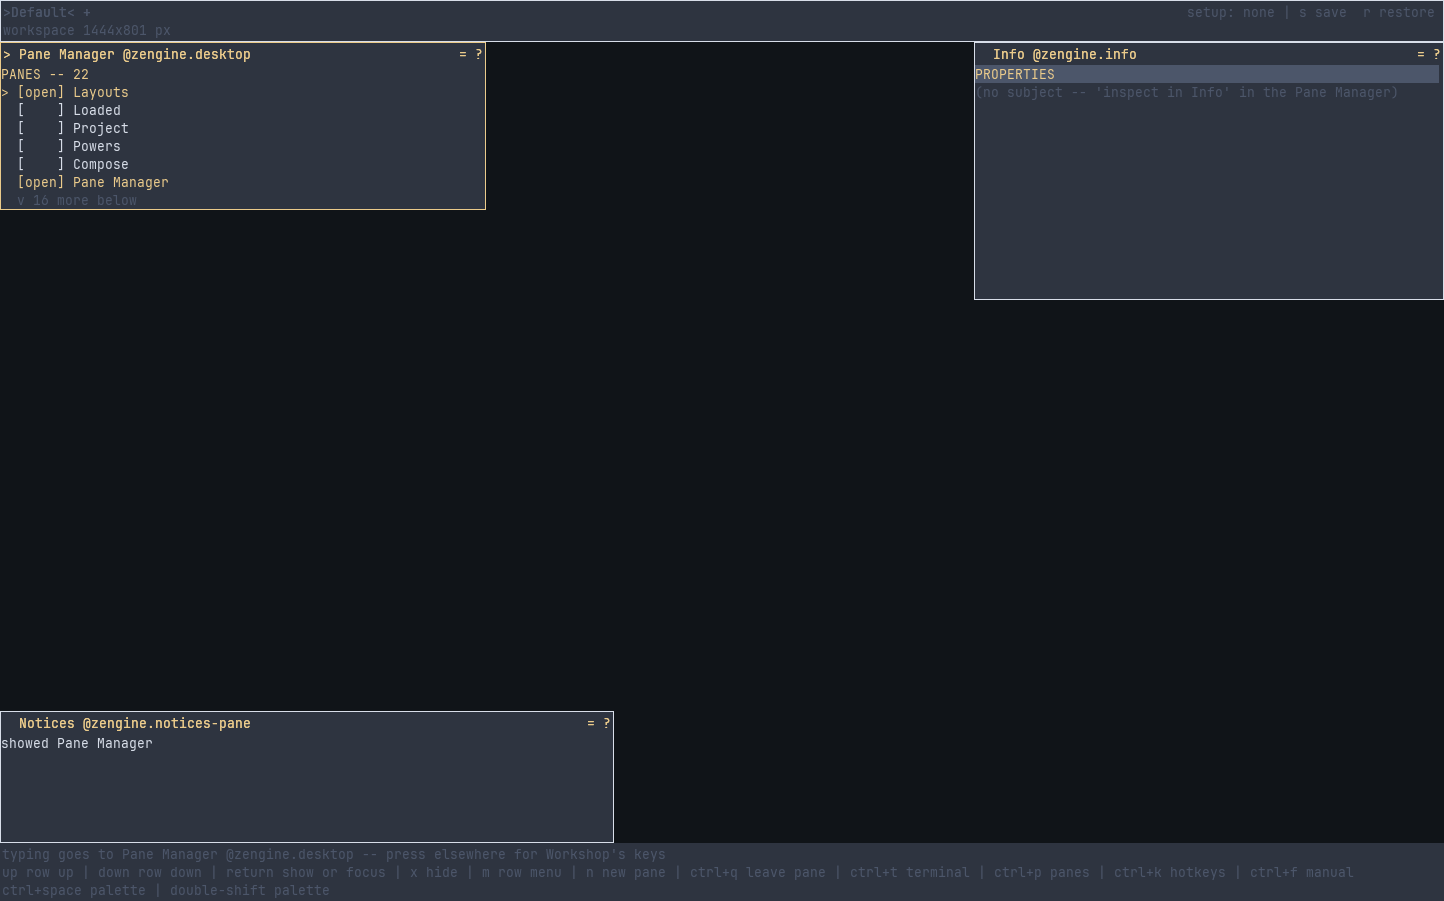
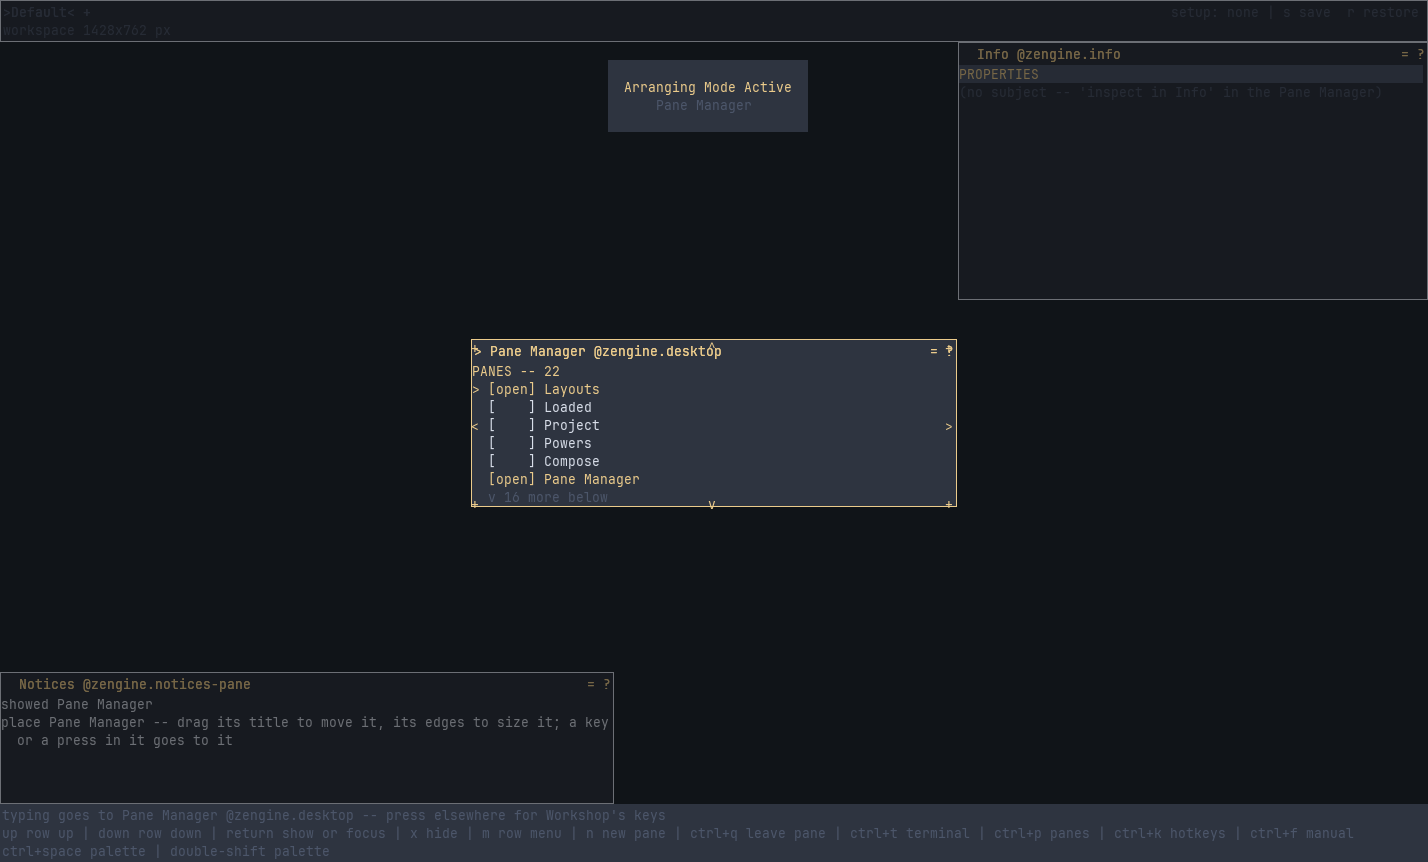
Getting started's and Panes' pictures of a pane opened are taken again: each opens at the room's centre, being placed, Arranging Mode Active named over it and the other panes faded

diff --git a/workshop/docs/getting-started.md b/workshop/docs/getting-started.md
@@ -195,15 +195,16 @@ the right of its title: press it to read what the pane is and every command it h
 
 ## Your first five minutes
 
-**At your first start, the quick setup asks first**, in front and holding the keys: whether to
-edit text with Neovim, and which ready-to-use setup to start. Done or Skip puts it away for good
+**At your first start, the quick setup asks first**, at the room's centre and holding the keys,
+ready for you to drag it where you want it: whether to edit text with Neovim, and which
+ready-to-use setup to start. Done or Skip puts it away for good
 and opens **Start here**, the story a step at a time, each box ticked as it happens, shown at each
 start until you finish it; find either again in the Pane Manager as Quick setup and Start here
 ([their manual](zengine.first-run.md)).
 
-![The quick setup at a first start, holding the keys: Edit text with Neovim, each ready-to-use setup the launcher lists with Start and its whole line, The story, Done and Skip; Notices says only showed Quick setup](images/first-run-quick-setup.png)
+![The quick setup at a first start, at the room's centre and holding the keys, being placed: Arranging Mode Active names it above it, Info and Notices fade beside it; it lists Edit text with Neovim, each ready-to-use setup the launcher lists with Start and its whole line, The story, Done and Skip; Notices says showed Quick setup and how to place it](images/first-run-quick-setup.png)
 
-![Start here at a later start, seated beside the desk without the keys: step 2 ticked by you, the others still to do, each with what ticks it and Show me; Notices says only reopened your last desk "Default" -- 1600x900 px](images/first-run-start-here.png)
+![Start here at a later start, where it was left at the room's centre, without the keys: step 2 ticked by you, the others still to do, each with what ticks it and Show me; Notices says only reopened your last desk "Default" -- 1584x861 px](images/first-run-start-here.png)
 
 **A fresh Workshop opens onto your desk**: the Layouts row, Info at the right, Notices at the lower
 left, and the room.
@@ -293,9 +294,9 @@ privilege the [snake example](../../examples/snake/README.md) does not.
 | colour | each area painted by its skin's painter, the role's ink on the terminal | each area painted by its skin's painter, RGB per role |
 | what needs attention | the Attention pane, where you put it | the Attention pane, where you put it |
 
-![The Pane Manager, Info and Notices in the terminal window, 120 by 30 cells: the Layouts row on the first row, the frames drawn in characters, Notices saying showed Pane Manager, the band's keys beneath](images/desk-terminal-window.png)
+![The Pane Manager, Info and Notices in the terminal window, 120 by 30 cells: the Layouts row on the first row, the Pane Manager at the room's centre being placed, Arranging Mode Active above it, the frames drawn in characters, Notices saying showed Pane Manager and how to place it, the band's keys beneath](images/desk-terminal-window.png)
 
-![The Pane Manager, Info and Notices in the OS window, 1444 by 901 pixels: text in the window's face, each pane on its own ground, Notices saying showed Pane Manager, each area painted by its skin's painter](images/desk-os-window.png)
+![The Pane Manager, Info and Notices in the OS window, 1444 by 901 pixels: text in the window's face, the Pane Manager at the room's centre being placed, Arranging Mode Active above it, Info and Notices faded, Notices saying showed Pane Manager and how to place it, each area painted by its skin's painter](images/desk-os-window.png)
 
 Neither is a degraded version of the other, and the same published intent produces both.
 

diff --git a/workshop/docs/panes.md b/workshop/docs/panes.md
@@ -76,7 +76,7 @@ if that place is off this screen, showing it says so on the band, with the two w
 `Reset >` `place` in its menu, which the Pane Manager's `manage <pane> >` reaches, or hiding it
 and showing it again.
 
-![The Pane Manager and Hotkeys fill the column of a 1200 by 600 window; Powers, shown from the Pane Manager, stands at the column's top in front of them, with the keys](images/panes-launch-at-the-top.png)
+![Powers, shown from the Pane Manager in a 1200 by 600 window, opens at the room's centre with the keys, in front of the Pane Manager it was shown from and being placed: Arranging Mode Active names it, and Info and Notices fade](images/panes-show-is-placed.png)
 
 **Showing never toggles.** `Enter` on a shown pane — or `Ctrl`+`t` while the Terminal is up —
 selects it and gives it the keyboard. It does not hide it, does not take it off your layout,
